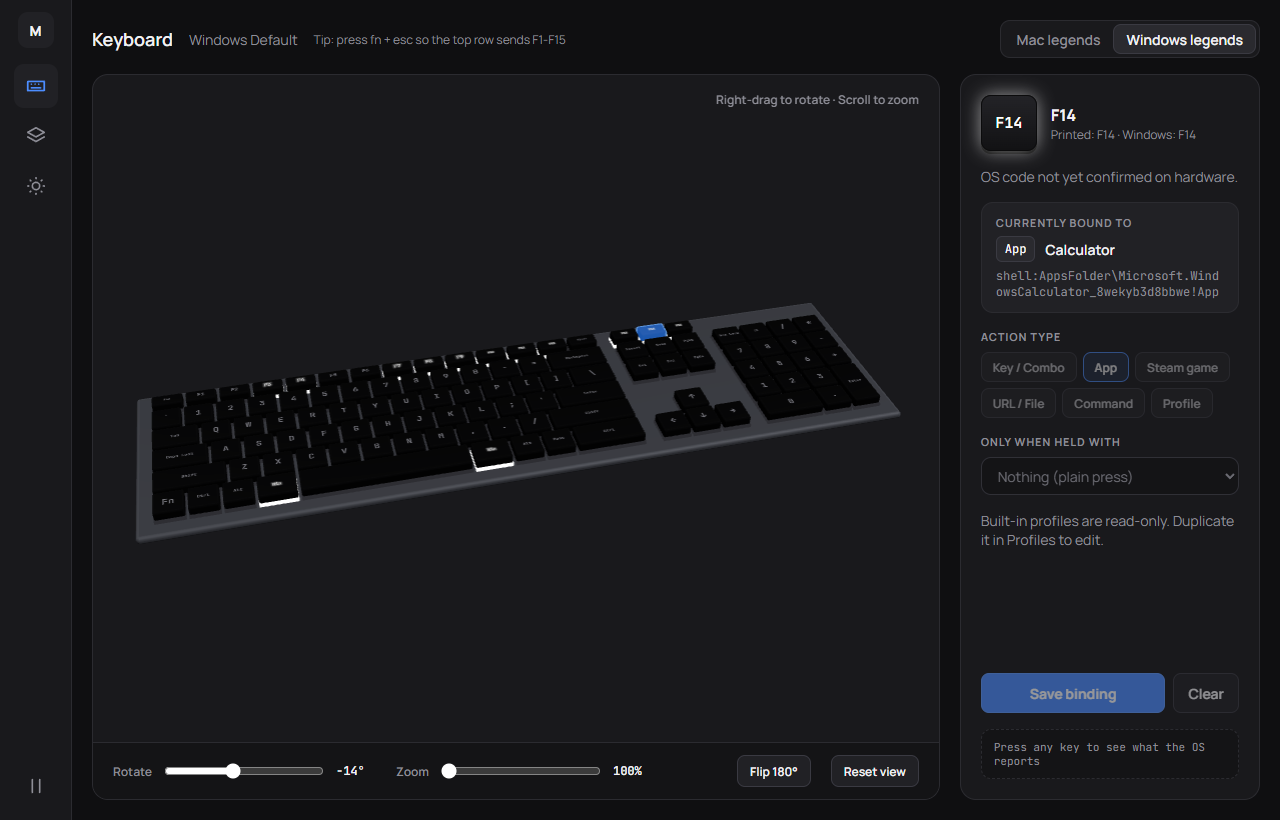
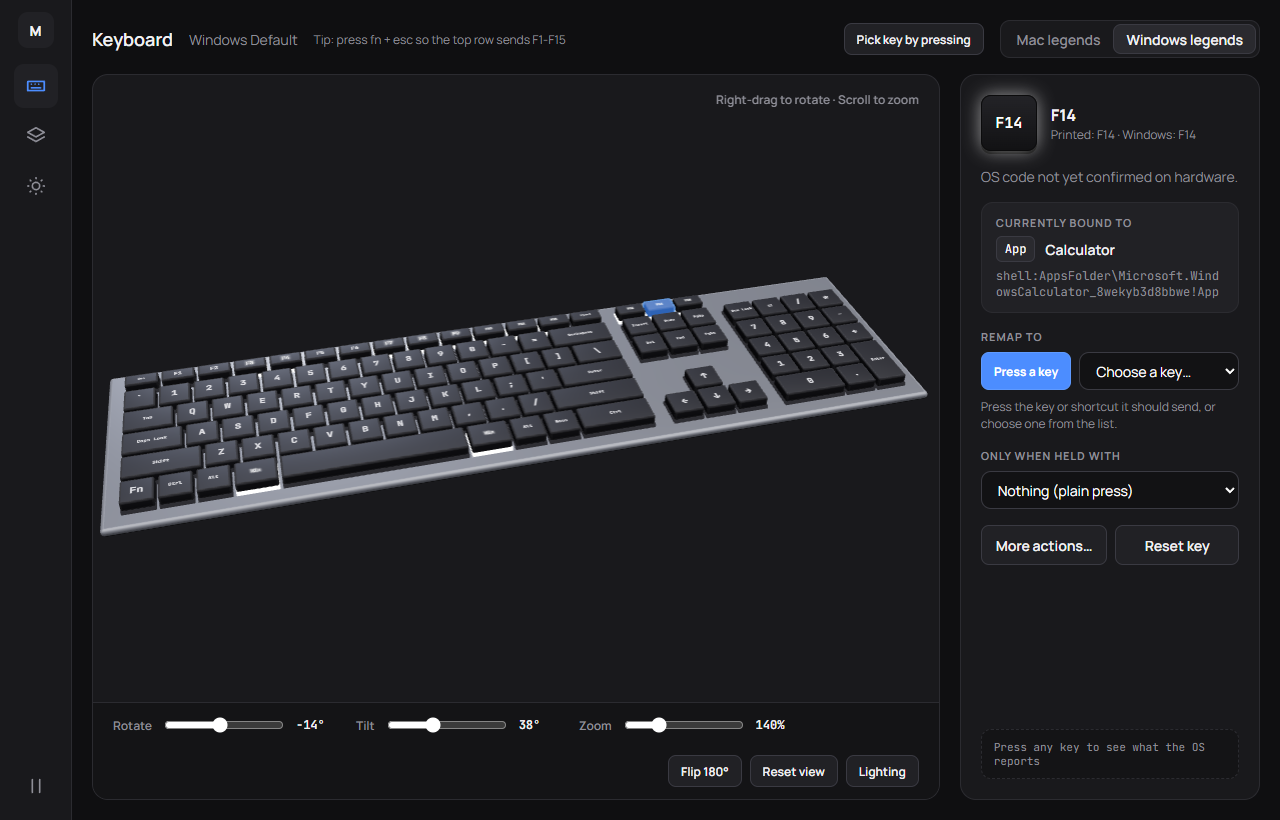
Start the 3D view closer and refresh the keyboard screenshot

diff --git a/src/lib/view.ts b/src/lib/view.ts
@@ -7,7 +7,8 @@ export const PITCH_MIN = (5 * Math.PI) / 180; // almost straight down
 export const PITCH_MAX = (80 * Math.PI) / 180; // stays above the horizon, so the underside never shows
 export const ZOOM_MIN = 1;
 export const ZOOM_MAX = 2.5;
-export const DEFAULT_VIEW: View3D = { yaw: (-14 * Math.PI) / 180, pitch: 0.9, zoom: 1 };
+// 100% keeps the whole board in view at any angle; the default starts closer for the usual front view.
+export const DEFAULT_VIEW: View3D = { yaw: (-14 * Math.PI) / 180, pitch: 0.9, zoom: 1.4 };
 
 const clamp = (v: number, lo: number, hi: number) => Math.min(hi, Math.max(lo, v));
 
